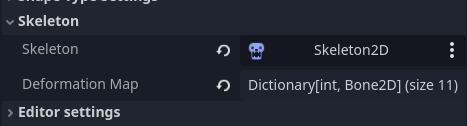
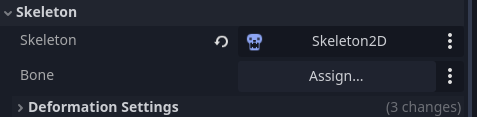
adds documentation comments, updates readme, preps release.

diff --git a/addons/curved_lines_2d/README.md b/addons/curved_lines_2d/README.md
@@ -104,6 +104,8 @@ In this 10 minute video I explain how to use all the features of Scalable Vector
   - [Watch the chapter about working with collisions, paint order and the node hierarchy on youtube](#watch-the-chapter-about-working-with-collisions-paint-order-and-the-node-hierarchy-on-youtube)
 - [Animating / Changing shapes at runtime](#animating--changing-shapes-at-runtime)
   - [Animating using `Skeleton2D`](#animating-using-skeleton2d)
+    - [Using deformation of the curve points](#using-deformation-of-the-curve-points)
+    - [Using transformation of the entire shape's position and rotation](#using-transformation-of-the-entire-shapes-position-and-rotation)
   - [Youtube explainer on animating curves](#youtube-explainer-on-animating-curves)
   - [A note up front (this being said)](#a-note-up-front-this-being-said)
   - [Animating the shape and gradients at Runtime](#animating-the-shape-and-gradients-at-runtime)
@@ -730,7 +732,10 @@ It is best to change these properties via the handles in the 2D editor. They are
 
 This form allows for rigging your shape by assigning a `Skeleton2D` node:
 - Skeleton: the assigned `Skeleton2D` node
+- Bone: an optionally assigned `Bone2D` node. If assigned, the bone will control the position and rotation of this shape. In this case the curve will not be deformed by the skeleton.
 - Deformation Map: a Dictionary telling the shape which point must be deformed by which bone.
+- Original position: stores the position the shape was at before assigning a bone, needed for following the bone's position
+- Original rotation: stores the position the shape was at before assigning a bone, needed for following the bone's rotation
 
 ## The Editor settings inspector form
 
@@ -776,9 +781,17 @@ As of release 2.24 you can rig your shapes to a `Skeleton2D`'s bones. Do this by
 
 ![assigning a skeleton](./screenshots/assign_skeleton.png)
 
+### Using deformation of the curve points
+
 Once a skeleton with `Bone2D` nodes is assigned, you can use the `Paint Bone` toggle button to assign individual points to bones by clicking + dragging:
 
 ![assigning points to bones](./screenshots/paint_bone.png)
+
+### Using transformation of the entire shape's position and rotation
+
+If you assign a `Bone2D` to the `bone` property, the entire shape will follow that bone's position and rotation. The `curve` will then not be deformed anymore. 
+
+
 
 ## Youtube explainer on animating curves
 

diff --git a/README.md b/README.md
@@ -104,6 +104,8 @@ In this 10 minute video I explain how to use all the features of Scalable Vector
 	- [Watch the chapter about working with collisions, paint order and the node hierarchy on youtube](#watch-the-chapter-about-working-with-collisions-paint-order-and-the-node-hierarchy-on-youtube)
 - [Animating / Changing shapes at runtime](#animating--changing-shapes-at-runtime)
 	- [Animating using `Skeleton2D`](#animating-using-skeleton2d)
+		- [Using deformation of the curve points](#using-deformation-of-the-curve-points)
+		- [Using transformation of the entire shape's position and rotation](#using-transformation-of-the-entire-shapes-position-and-rotation)
 	- [Youtube explainer on animating curves](#youtube-explainer-on-animating-curves)
 	- [A note up front (this being said)](#a-note-up-front-this-being-said)
 	- [Animating the shape and gradients at Runtime](#animating-the-shape-and-gradients-at-runtime)
@@ -730,7 +732,10 @@ It is best to change these properties via the handles in the 2D editor. They are
 
 This form allows for rigging your shape by assigning a `Skeleton2D` node:
 - Skeleton: the assigned `Skeleton2D` node
+- Bone: an optionally assigned `Bone2D` node. If assigned, the bone will control the position and rotation of this shape. In this case the curve will not be deformed by the skeleton.
 - Deformation Map: a Dictionary telling the shape which point must be deformed by which bone.
+- Original position: stores the position the shape was at before assigning a bone, needed for following the bone's position
+- Original rotation: stores the position the shape was at before assigning a bone, needed for following the bone's rotation
 
 ## The Editor settings inspector form
 
@@ -776,9 +781,16 @@ As of release 2.24 you can rig your shapes to a `Skeleton2D`'s bones. Do this by
 
 ![assigning a skeleton](./addons/curved_lines_2d/screenshots/assign_skeleton.png)
 
+### Using deformation of the curve points
+
 Once a skeleton with `Bone2D` nodes is assigned, you can use the `Paint Bone` toggle button to assign individual points to bones by clicking + dragging:
 
 ![assigning points to bones](./addons/curved_lines_2d/screenshots/paint_bone.png)
+
+### Using transformation of the entire shape's position and rotation
+
+If you assign a `Bone2D` to the `bone` property, the entire shape will follow that bone's position and rotation. The `curve` will then not be deformed anymore. 
+
 
 ## Youtube explainer on animating curves
 

diff --git a/CHANGELOG.md b/CHANGELOG.md
@@ -1,10 +1,11 @@
 # Changelog
 
-## 2.24.2
+## 2.24.4
 
 ### Added
 
 - Skeleton rigging (soft launch): deform `ScalableVectorShape2D` points using a `Skeleton2D` and `Bone2D`
+- Rig entire `ScalableVectorShape2D`'s position and rotation against a single `Bone2D`: this disables curve deform by skeleton for this shape.
 
 ### Changed
 